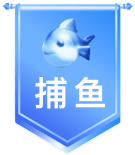
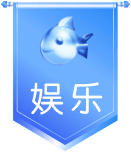
fix: [lh h5] Amend 捕鱼 to 娱乐 for side nav, remove 其他 for lottery and fishing

diff --git a/lh-static-h5/src/pages/HomePage.vue b/lh-static-h5/src/pages/HomePage.vue
@@ -159,6 +159,7 @@
           <img src="../assets/images/home/games/slot-icon.png" />
         </template>
       </div>
+      <!--
       <div @click="selectTab('others')" class="game-platform btn-pointer" id="others-platform">
         <template v-if="tab === 'others'">
           <img src="../assets/images/home/games/others-icon-active.png" />
@@ -167,21 +168,13 @@
           <img src="../assets/images/home/games/others-icon.png" />
         </template>
       </div>
-
-      <!-- <div @click="selectTab('lottery')" class="game-platform btn-pointer" id="lottery-platform">
+      -->
+      <div @click="selectTab('lottery')" class="game-platform btn-pointer" id="lottery-platform">
         <template v-if="tab === 'lottery'">
           <img src="../assets/images/home/games/lottery-icon-active.png" />
         </template>
         <template v-else>
           <img src="../assets/images/home/games/lottery-icon.png" />
-        </template>
-      </div>
-      <div @click="selectTab('slot')" class="game-platform btn-pointer" id="slot-platform">
-        <template v-if="tab === 'slot'">
-          <img src="../assets/images/home/games/slot-icon-active.png" />
-        </template>
-        <template v-else>
-          <img src="../assets/images/home/games/slot-icon.png" />
         </template>
       </div>
       <div @click="selectTab('fishing')" class="game-platform btn-pointer" id="fishing-platform">
@@ -191,7 +184,7 @@
         <template v-else>
           <img src="../assets/images/home/games/fish-icon.png" />
         </template>
-      </div> -->
+      </div>
     </div>
 
     <div class="game-right-platform" v-scroll="onHomeScroll" id="id-right-platform">
@@ -360,6 +353,7 @@
         </template>
       </div>
 
+      <!--
       <div class="game-lists fade-in-image" id="others-lists">
 
         <template v-for="(item, index) in lottery" :key="index">
@@ -424,16 +418,17 @@
           </div>
         </template>
       </div>
+      -->
 
 
-      <!-- <div class="game-lists" v-if="tab === 'lottery'" id="lottery-lists">
+      <div class="game-lists" id="lottery-lists">
         <template v-for="(item, index) in lottery" :key="index">
           <div
             class="platform-block"
             @click="playGame(item.gameName, item.code, item.gameCode)"
             :class="item.underMaintenance === true ? 'maintenance' : ''"
           >
-               <MaintenanceBox :item="item" :moment="moment(item.maintenanceStartTime)" />
+            <MaintenanceBox :item="item" :moment="moment(item.maintenanceStartTime)" />
 
 
             <div
@@ -457,42 +452,42 @@
             </div>
           </div>
         </template>
-      </div> -->
+      </div>
 
       <!-- <div class="game-lists" v-if="tab === 'slot'" id="slot-lists">
-        <template v-for="(item, index) in slot" :key="index">
+      <template v-for="(item, index) in slot" :key="index">
+        <div
+          class="platform-block"
+          @click="router.push({ path: '/slot', query: { platform: item.code } })"
+          :class="item.underMaintenance === true ? 'maintenance' : ''"
+        >
+            <MaintenanceBox :item="item" :moment="moment(item.maintenanceStartTime)" />
+
+
           <div
-            class="platform-block"
-            @click="router.push({ path: '/slot', query: { platform: item.code } })"
-            :class="item.underMaintenance === true ? 'maintenance' : ''"
+            class="platform-img-frame"
+            :style="{
+              'background-image': getImgPlatformBg(item.icon, item.name, item.alias)
+            }"
           >
-               <MaintenanceBox :item="item" :moment="moment(item.maintenanceStartTime)" />
-
-
-            <div
-              class="platform-img-frame"
-              :style="{
-                'background-image': getImgPlatformBg(item.icon, item.name, item.alias)
-              }"
-            >
-              <div class="platform-label"></div>
-              <div class="platform-content">
-                <div class="platform-logo">
-                  <img :src="getImgPlatformLogo(item.icon, item.name, item.alias)" />
-                </div>
-                <div class="platform-title">{{ item.title }}</div>
-                <div class="platform-subtitle">{{ item.subtitle }}</div>
-                <div class="platform-rebate">
-                  最高返水
-                  <span>8%</span>
-                </div>
+            <div class="platform-label"></div>
+            <div class="platform-content">
+              <div class="platform-logo">
+                <img :src="getImgPlatformLogo(item.icon, item.name, item.alias)" />
+              </div>
+              <div class="platform-title">{{ item.title }}</div>
+              <div class="platform-subtitle">{{ item.subtitle }}</div>
+              <div class="platform-rebate">
+                最高返水
+                <span>8%</span>
               </div>
             </div>
           </div>
-        </template>
+        </div>
+      </template>
       </div> -->
 
-      <!-- <div class="game-lists" v-if="tab === 'fishing'" id="fishing-lists">
+      <div class="game-lists" id="fishing-lists">
         <template v-for="(item, index) in fishing" :key="index">
           <div
             class="platform-block"
@@ -523,7 +518,7 @@
             </div>
           </div>
         </template>
-      </div> -->
+      </div>
 
 
       <!--      <div class="index-platform-container" style="overflow: hidden">-->
@@ -953,7 +948,7 @@ export default defineComponent({
       isScrolling.value = true;
       var slideItem = document.getElementById(slide_id);
       var bodyElement = document.body;
-
+      
       if (slideItem) {
 
         var divOffset = slideItem.getBoundingClientRect();
@@ -989,8 +984,9 @@ export default defineComponent({
           var checkItem3 = document.getElementById("live-lists");
           var checkItem4 = document.getElementById("poker-lists");
           var checkItem5 = document.getElementById("slot-lists");
-          var checkItem6 = document.getElementById("others-lists");
-
+          // var checkItem6 = document.getElementById("others-lists");
+          var checkItem6 = document.getElementById("lottery-lists");
+          var checkItem7 = document.getElementById("fishing-lists");
 
           var positionTop1 = checkItem1.getBoundingClientRect().top;
           var positionTop2 = checkItem2.getBoundingClientRect().top;
@@ -998,6 +994,8 @@ export default defineComponent({
           var positionTop4 = checkItem4.getBoundingClientRect().top;
           var positionTop5 = checkItem5.getBoundingClientRect().top;
           var positionTop6 = checkItem6.getBoundingClientRect().top;
+          var positionTop7 = checkItem7.getBoundingClientRect().top;
+          var positionTop8 = checkItem8.getBoundingClientRect().top;
 
           // console.log(blockHeight);
           // console.log(positionTop6);
@@ -1009,6 +1007,10 @@ export default defineComponent({
 
           if (windowHeight + 15 > bodyOffset.bottom) {
             tab.value = "others";
+          } else if (0 > positionTop7 - 5 && positionTop8 >= blockHeight) {
+            tab.value = "fishing";
+          } else if (0 > positionTop6 - 5 && positionTop7 >= blockHeight) {
+            tab.value = "lottery";
           } else if (0 > positionTop5 - 5 && positionTop6 >= blockHeight) {
             tab.value = "slot";
           } else if (0 > positionTop4 - 5 && positionTop5 >= blockHeight) {
@@ -1058,6 +1060,16 @@ export default defineComponent({
         // firstSwiper.value?.slideTo(slideIndex, 500);
         scrollToSlide("others-lists");
       }
+      if (tab === "lottery") {
+        // slideIndex = esport.value.length + sport.value.length + livecasino.value.length + poker.value.length;
+        // firstSwiper.value?.slideTo(slideIndex, 500);
+        scrollToSlide("lottery-lists");
+      }
+      if (tab === "fishing") {
+        // slideIndex = esport.value.length + sport.value.length + livecasino.value.length + poker.value.length;
+        // firstSwiper.value?.slideTo(slideIndex, 500);
+        scrollToSlide("fishing-lists");
+      }
 
     };
     const onSlideChange = (swiper) => {
@@ -1072,7 +1084,7 @@ export default defineComponent({
       const activeSlideClassName = activeSlide.className;
       // Check if the class name contains "sport," "slot," or "esport"
       // Array of keywords to check
-      const keywords = ["slot", "live", "sport", "esport", "slot", "others"];
+      const keywords = ["slot", "live", "sport", "esport", "slot", "lottery", "fishing"];
 
       // Iterate over each keyword
       for (const keyword of keywords) {
